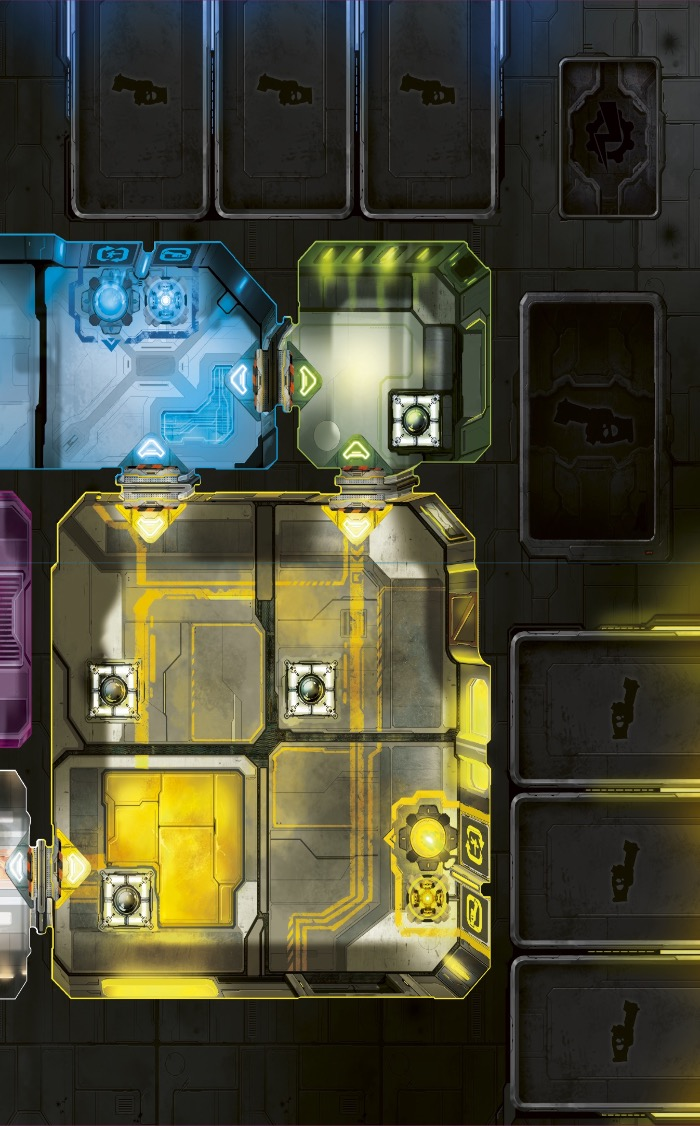
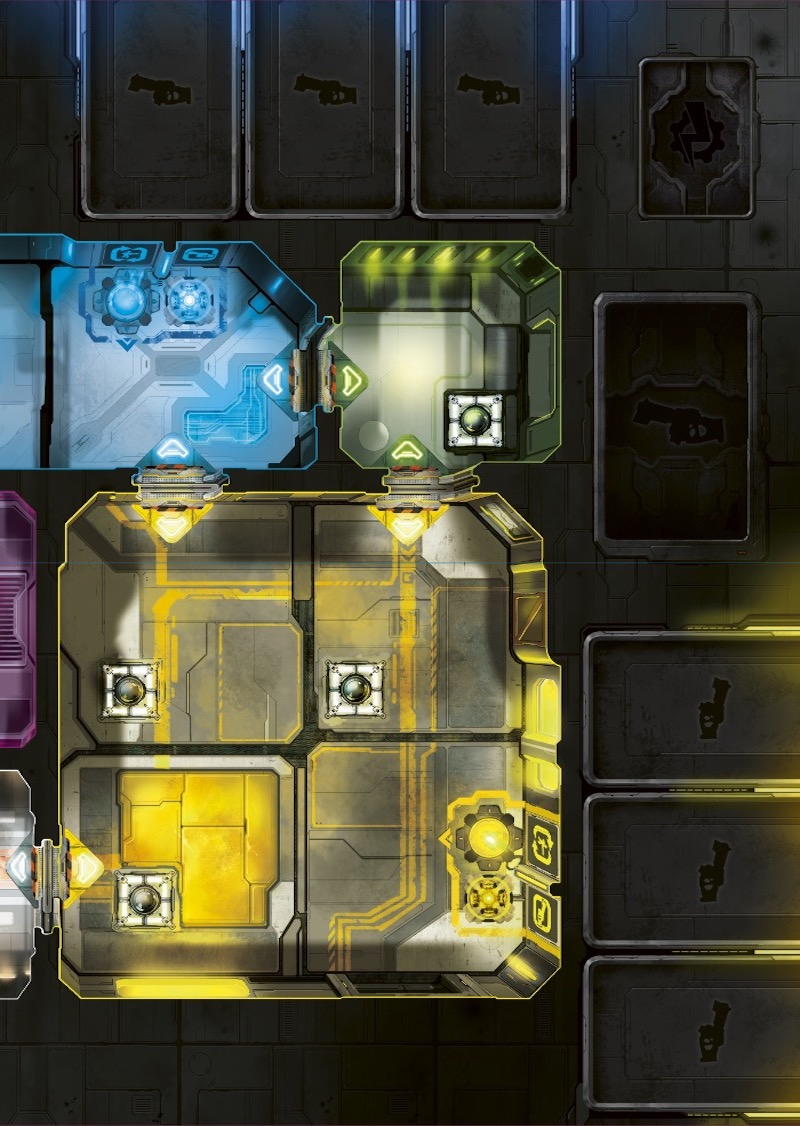
gameboard ok

diff --git a/src/main/java/it/polimi/ingsw/client/views/gui/boards/GameBoard.java b/src/main/java/it/polimi/ingsw/client/views/gui/boards/GameBoard.java
@@ -41,10 +41,8 @@ public class GameBoard extends AbstractBoard {
     public void onSpriteClicked(@NotNull Sprite sprite) {
         //TODO
         if (sprite.getAssociatedObject() != null) {
-            if (sprite.getAssociatedObject() instanceof Weapon.Name) {
-                System.out.println("clicked: " + sprite.getAssociatedObject());
+            if (sprite.getAssociatedObject() instanceof Weapon.Name)
                 new WeaponExpoViewController(null, sprite.getAssociatedObject()).setVisible(true);
-            }
         }
         //Optional.ofNullable(gameBoardListener).ifPresent(e -> e.doAction(Action.Builder.create(getGame().getUuid()).buildMoveAction(new Point(0, 0))));
     }
@@ -65,23 +63,23 @@ public class GameBoard extends AbstractBoard {
     }
 
     private void insertStaticSprites() throws IOException {
-        var weapon = new Sprite(1053, 227, 128, 240, Utils.readPngImage(Weapon.class, "back"));
+        var weapon = new Sprite(1044, 227, 143, 237, Utils.readPngImage(Weapon.class, "back"));
         weapon.setDraggable(true);
-        weapon.setTag("p:1053,227");
+        weapon.setTag("p:1044,227");
         weapon.fade(new LinearFadeInterpolator(0, 1, 1000) {
         });
         addSprite(weapon);
 
-        var powerup = new Sprite(1081, 46, 81, 115, Utils.readPngImage(PowerUp.class, "back"));
+        var powerup = new Sprite(1076, 47, 105, 154, Utils.readPngImage(PowerUp.class, "back"));
         powerup.setDraggable(true);
-        powerup.setTag("p:1081,46");
+        powerup.setTag("p:1076,47");
         powerup.fade(new LinearFadeInterpolator(0, 1, 1000) {
         });
         addSprite(powerup);
 
-        var ammoCard = new Sprite(57, 725, 84, 84, Utils.readPngImage(AmmoCard.class, "back"));
+        var ammoCard = new Sprite(59, 738, 84, 84, Utils.readPngImage(AmmoCard.class, "back"));
         ammoCard.setDraggable(true);
-        ammoCard.setTag("p:57,725");
+        ammoCard.setTag("p:59,738");
         ammoCard.fade(new LinearFadeInterpolator(0, 1, 1000) {
         });
         addSprite(ammoCard);
@@ -93,17 +91,54 @@ public class GameBoard extends AbstractBoard {
             for (point.x = 0; point.x < cells[point.y].length; point.x++) {
                 Optional.ofNullable(cells[point.y][point.x]).map(Cell::getAmmoCard).ifPresent(e -> {
                     var position = new Point(-100, -100);
-                    if (point.x == 0 && point.y == 0) position = new Point(267, 303);
-                    if (point.x == 0 && point.y == 1) position = new Point(457, 204);
-                    if (point.x == 0 && point.y == 3) position = new Point(934, 292);
-                    if (point.x == 1 && point.y == 1) position = new Point(439, 442);
-                    if (point.x == 1 && point.y == 2) position = new Point(674, 496);
-                    if (point.x == 1 && point.y == 3) position = new Point(844, 495);
-                    if (point.x == 2 && point.y == 0) position = new Point(268, 657);
-                    if (point.x == 2 && point.y == 1) position = new Point(446, 657);
-                    if (point.x == 2 && point.y == 2) position = new Point(687, 653);
+                    if (point.x == 0 && point.y == 0) {
+                        if (game.getType().getLeft().equals(Game.Type.SIX_SIX.getLeft()))
+                            position = new Point(248, 305);
+                        if (game.getType().getLeft().equals(Game.Type.FIVE_FIVE.getLeft()))
+                            position = new Point(243, 213);
+                    }
+                    if (point.x == 0 && point.y == 1) {
+                        if (game.getType().getLeft().equals(Game.Type.SIX_SIX.getLeft()))
+                            position = new Point(425, 208);
+                        if (game.getType().getLeft().equals(Game.Type.FIVE_FIVE.getLeft()))
+                            position = new Point(426, 298);
+                    }
+                    if (point.x == 0 && point.y == 3 && game.getType().getRight().equals(Game.Type.SIX_SIX.getRight()))
+                        position = new Point(919, 295);
+                    if (point.x == 1 && point.y == 1) {
+                        if (game.getType().getLeft().equals(Game.Type.SIX_SIX.getLeft()))
+                            position = new Point(409, 445);
+                        if (game.getType().getLeft().equals(Game.Type.FIVE_FIVE.getLeft()))
+                            position = new Point(409, 439);
+                    }
+                    if (point.x == 1 && point.y == 2) {
+                        if (game.getType().getRight().equals(Game.Type.SIX_SIX.getRight()))
+                            position = new Point(641, 498);
+                        if (game.getType().getRight().equals(Game.Type.FIVE_FIVE.getRight()))
+                            position = new Point(644, 463);
+                    }
+                    if (point.x == 1 && point.y == 3) {
+                        if (game.getType().getRight().equals(Game.Type.SIX_SIX.getRight()))
+                            position = new Point(823, 498);
+                        if (game.getType().getRight().equals(Game.Type.FIVE_FIVE.getRight()))
+                            position = new Point(919, 462);
+                    }
+                    if (point.x == 2 && point.y == 0 && game.getType().getLeft().equals(Game.Type.SIX_SIX.getLeft()))
+                        position = new Point(249, 659);
+                    if (point.x == 2 && point.y == 1) {
+                        if (game.getType().getLeft().equals(Game.Type.SIX_SIX.getLeft()))
+                            position = new Point(415, 660);
+                        if (game.getType().getLeft().equals(Game.Type.FIVE_FIVE.getLeft()))
+                            position = new Point(415, 659);
+                    }
+                    if (point.x == 2 && point.y == 2) {
+                        if (game.getType().getRight().equals(Game.Type.SIX_SIX.getRight()))
+                            position = new Point(654, 655);
+                        if (game.getType().getRight().equals(Game.Type.FIVE_FIVE.getRight()))
+                            position = new Point(621, 661);
+                    }
                     try {
-                        var ammoSprite = new Sprite(position.x, position.y, 45, 45, e.getFrontImage());
+                        var ammoSprite = new Sprite(position.x, position.y, 55, 55, e.getFrontImage());
                         ammoSprite.setTag("p:" + position.x + "," + position.y);
                         ammoSprite.setDraggable(true);
                         ammoSprite.fade(new LinearFadeInterpolator(0, 1, 1000) {
@@ -118,9 +153,9 @@ public class GameBoard extends AbstractBoard {
 
     private void populateWeapons(@NotNull Game game) throws IOException {
         for (var i = 0; i < 3; i++) {
-            var yellowWeapon = new Sprite(1042, 478 + i * 121, 104, 177, game.getWeapons(Cell.Color.YELLOW).get(i).getFrontImage());
+            var yellowWeapon = new Sprite(1035, 480 + i * 121, 140, 210, game.getWeapons(Cell.Color.YELLOW).get(i).getFrontImage());
             yellowWeapon.setRotation(Sprite.Rotation.THREE_HALF_PI);
-            yellowWeapon.setTag("p:1042" + "," + (478 + i * 121));
+            yellowWeapon.setTag("p:1035" + "," + (480 + i * 121));
             yellowWeapon.setDraggable(true);
             yellowWeapon.setAssociatedObject(game.getWeapons(Cell.Color.YELLOW).get(i));
             yellowWeapon.fade(new LinearFadeInterpolator(0, 1, 1000) {
@@ -129,9 +164,9 @@ public class GameBoard extends AbstractBoard {
         }
 
         for (var i = 0; i < 3; i++) {
-            var redWeapon = new Sprite(4, 306 + i * 121, 104, 177, game.getWeapons(Cell.Color.RED).get(i).getFrontImage());
+            var redWeapon = new Sprite(1, 308 + i * 121, 140, 210, game.getWeapons(Cell.Color.RED).get(i).getFrontImage());
             redWeapon.setRotation(Sprite.Rotation.HALF_PI);
-            redWeapon.setTag("p:4" + "," + (306 + i * 121));
+            redWeapon.setTag("p:1" + "," + (308 + i * 121));
             redWeapon.setDraggable(true);
             redWeapon.setAssociatedObject(game.getWeapons(Cell.Color.RED).get(i));
             redWeapon.fade(new LinearFadeInterpolator(0, 1, 1000) {
@@ -140,9 +175,9 @@ public class GameBoard extends AbstractBoard {
         }
 
         for (var i = 0; i < 3; i++) {
-            var blueWeapon = new Sprite(666 + i * 124, -19, 108, 177, game.getWeapons(Cell.Color.BLUE).get(i).getFrontImage());
+            var blueWeapon = new Sprite(634 + i * 131, 0, 140, 210, game.getWeapons(Cell.Color.BLUE).get(i).getFrontImage());
             blueWeapon.setRotation(Sprite.Rotation.PI);
-            blueWeapon.setTag("p:" + (666 + i * 124) + ",-19");
+            blueWeapon.setTag("p:" + (634 + i * 131) + ",0");
             blueWeapon.setDraggable(true);
             blueWeapon.setAssociatedObject(game.getWeapons(Cell.Color.BLUE).get(i));
             blueWeapon.fade(new LinearFadeInterpolator(0, 1, 1000) {
@@ -153,8 +188,8 @@ public class GameBoard extends AbstractBoard {
 
     private void populateSkulls(@NotNull Game game) throws IOException {
         for (int i = 0; i < game.getSkulls(); i++) {
-            var skull = new Sprite(92 + 54 * i, 48, 50, 50, Utils.readPngImage(Game.class, "skull"));
-            skull.setTag("p:" + (92 + 54 * i) + ",48");
+            var skull = new Sprite((int) (86 + 50.5 * i), 51, 60, 60, Utils.readPngImage(Game.class, "skull"));
+            skull.setTag("p:" + (int) (86 + 50.5 * i) + ",51");
             skull.setDraggable(true);
             skull.fade(new LinearFadeInterpolator(0, 1, 1000) {
             });

diff --git a/src/main/java/it/polimi/ingsw/client/controllers/game/GameViewController.java b/src/main/java/it/polimi/ingsw/client/controllers/game/GameViewController.java
@@ -28,7 +28,7 @@ public class GameViewController extends BaseViewController implements GameBoardL
     private JButton playersBoardButton;
     private JButton exitButton;
 
-    private @Nullable NavigationController lastViewController;
+    private @Nullable PlayersBoardsViewController playersBoardsViewController;
 
     public GameViewController(@NotNull NavigationController navigationController, @NotNull Object... params) {
         super("Gioca", 1200, 900, navigationController);
@@ -38,11 +38,13 @@ public class GameViewController extends BaseViewController implements GameBoardL
         //var gameUuid = (UUID) params[0];
         setContentPane(panel);
         playersBoardButton.addActionListener(e -> {
-            if (lastViewController != null) lastViewController.close();
-            lastViewController = new NavigationController(PlayersBoardsViewController.class, gameBoard.getGame());
+            if (playersBoardsViewController != null) playersBoardsViewController.dispose();
+            playersBoardsViewController = new PlayersBoardsViewController(null, gameBoard.getGame());
+            playersBoardsViewController.setVisible(true);
         });
         exitButton.addActionListener(e -> {
             var room = new Room("ciao", new User("user1"));
+            room.setGameType(Game.Type.values()[new SecureRandom().nextInt(4)]);
             Collections.nCopies(4, null).parallelStream().map(f -> new User(UUID.randomUUID().toString().substring(0, 7))).collect(Collectors.toList()).forEach(room::addUser);
             var game = GameImpl.Creator.newGame(room);
             game.getPlayers().forEach(f -> {

diff --git a/src/main/java/it/polimi/ingsw/client/controllers/game/PlayersBoardsViewController.java b/src/main/java/it/polimi/ingsw/client/controllers/game/PlayersBoardsViewController.java
@@ -7,6 +7,7 @@ import it.polimi.ingsw.client.controllers.base.NavigationController;
 import it.polimi.ingsw.client.views.gui.boards.PlayerBoard;
 import it.polimi.ingsw.common.models.Game;
 import org.jetbrains.annotations.NotNull;
+import org.jetbrains.annotations.Nullable;
 
 import javax.swing.*;
 import java.awt.*;
@@ -16,9 +17,8 @@ public class PlayersBoardsViewController extends BaseViewController {
     private JPanel panel;
     private JTabbedPane tabbedPane;
 
-    public PlayersBoardsViewController(@NotNull NavigationController navigationController, @NotNull Object... params) {
+    public PlayersBoardsViewController(@Nullable NavigationController navigationController, @NotNull Object... params) {
         super("Plance", 900, 270, navigationController);
-        setResizable(true);
         setContentPane(panel);
         ((Game) params[0]).getPlayers().forEach(e -> {
             try {
